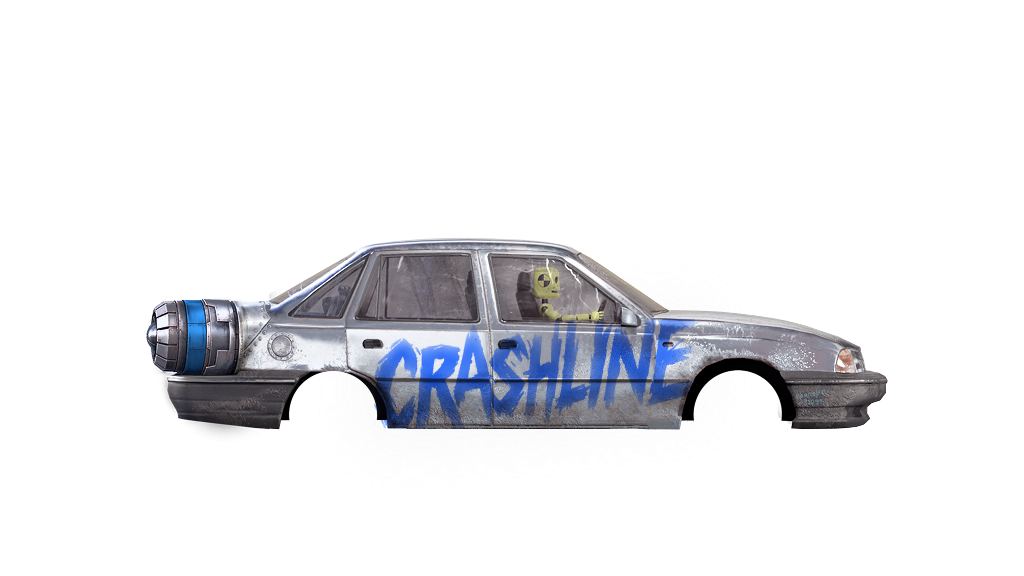
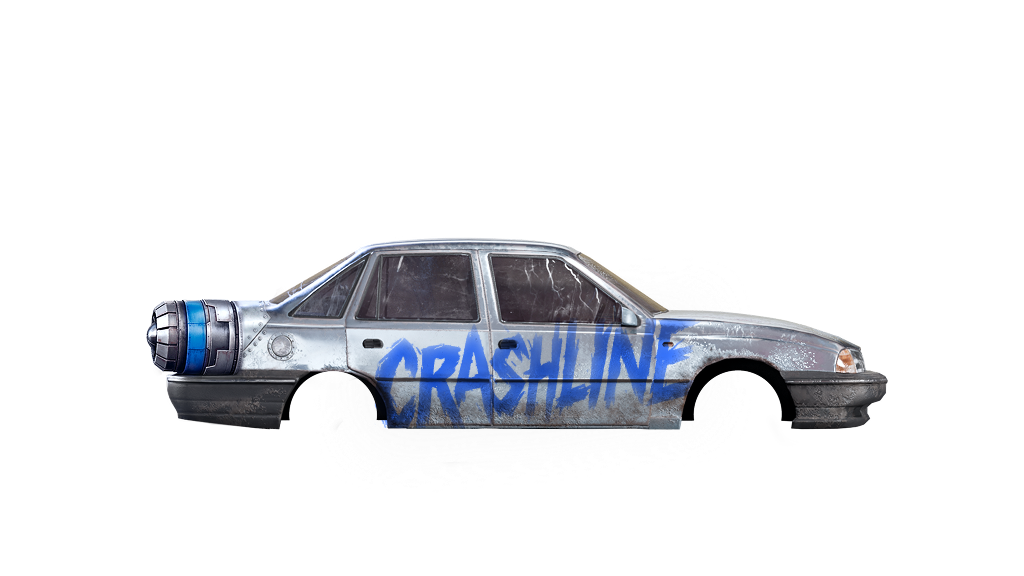
fd

diff --git a/src/scenes/game-scene.js b/src/scenes/game-scene.js
@@ -74,6 +74,7 @@
       this.carControlConfig = null;
       this.carControlRoot = null;
       this.carControlJson = null;
+      this.nextCarLightSweepAt = 0;
     }
 
     create() {
@@ -88,7 +89,9 @@
         wheel1: this.textures.exists("wheel1"),
         wheelShadow: this.textures.exists("wheelShadow"),
         carGroundShadow: this.textures.exists("carGroundShadow"),
-        turboFire1: this.textures.exists("turboFire1")
+        turboFire1: this.textures.exists("turboFire1"),
+        carCrashBody1: this.textures.exists("carCrashBody1"),
+        carLightSweep1: this.textures.exists("carLightSweep1")
       });
       this.wallet = new CT.Wallet();
       this.cameras.main.setBounds(-1800, 0, CT.Config.gameplay.worldWidth + 1800, CT.Config.height);
@@ -633,6 +636,8 @@
           this.car.bodyRig.setPosition(cfg.body.x, cfg.body.y).setAngle(0);
         }
         if (this.car.bodyImage) this.car.bodyImage.setScale(cfg.body.scale);
+        if (this.car.lightSweep) this.car.lightSweep.setScale(cfg.body.scale);
+        if (this.car.crashBody) this.car.crashBody.setScale(cfg.body.scale);
         if (this.car.rearWheel) this.car.rearWheel.setPosition(cfg.rearWheel.x, cfg.rearWheel.y).setScale(cfg.rearWheel.scale);
         if (this.car.frontWheel) this.car.frontWheel.setPosition(cfg.frontWheel.x, cfg.frontWheel.y).setScale(cfg.frontWheel.scale);
         if (this.car.wheelShadow) {
@@ -911,9 +916,15 @@
         .setBlendMode(Phaser.BlendModes.ADD);
       const bodyRig = this.add.container(0, 0);
       const bodyImage = this.add.image(0, 0, "carBody").setOrigin(0.5);
+      const lightSweep = this.add.sprite(0, 0, "carLightSweep1")
+        .setOrigin(0.5)
+        .setVisible(false)
+        .setAlpha(0)
+        .setBlendMode(Phaser.BlendModes.ADD);
+      const crashBody = this.add.sprite(0, 0, "carCrashBody1").setOrigin(0.5).setVisible(false);
 
       wheelRig.add([rearWheel, frontWheel, wheelShadow]);
-      bodyRig.add([bodyImage, turboFire]);
+      bodyRig.add([bodyImage, lightSweep, crashBody, turboFire]);
       visualRoot.add([wheelRig, bodyRig]);
       car.add(visualRoot);
 
@@ -921,6 +932,8 @@
       car.wheelRig = wheelRig;
       car.bodyRig = bodyRig;
       car.bodyImage = bodyImage;
+      car.lightSweep = lightSweep;
+      car.crashBody = crashBody;
       car.rearWheel = rearWheel;
       car.frontWheel = frontWheel;
       car.wheelShadow = wheelShadow;
@@ -930,11 +943,83 @@
       car.bodyBaseY = 0;
       car.bodyBouncePhase = Math.random() * Math.PI * 2;
       car.bodyPitchPhase = Math.random() * Math.PI * 2;
+      lightSweep.on("animationcomplete", (animation) => {
+        if (animation && animation.key === "carLightSweep") {
+          lightSweep.setVisible(false).setAlpha(0);
+        }
+      });
       this.car = car;
       this.applyCarControlConfig(false);
       this.setWheelPlayback(false);
       this.updateCarFlame();
       return car;
+    }
+
+    setCarCrashVisual(active) {
+      if (!this.car) return;
+      if (this.car.bodyImage) this.car.bodyImage.setVisible(!active);
+      if (this.car.rearWheel) this.car.rearWheel.setVisible(!active);
+      if (this.car.frontWheel) this.car.frontWheel.setVisible(!active);
+      if (this.car.wheelShadow) this.car.wheelShadow.setVisible(!active);
+
+      if (this.car.turboFire) {
+        this.car.turboFire.setVisible(!active);
+        if (active) this.car.turboFire.setAlpha(0);
+      }
+      if (active) this.hideCarLightSweep();
+
+      if (!this.car.crashBody) return;
+      if (active) {
+        if (this.car.crashBody.visible) return;
+        this.car.crashBody
+          .setVisible(true)
+          .setAlpha(1)
+          .setTexture("carCrashBody1");
+        this.car.crashBody.play("carBodyCrash", true);
+      } else {
+        if (this.car.crashBody.anims && this.car.crashBody.anims.isPlaying) {
+          this.car.crashBody.stop();
+        }
+        this.car.crashBody
+          .setTexture("carCrashBody1")
+          .setVisible(false)
+          .setAlpha(0);
+      }
+    }
+
+    hideCarLightSweep() {
+      if (!this.car || !this.car.lightSweep) return;
+      if (this.car.lightSweep.anims && this.car.lightSweep.anims.isPlaying) {
+        this.car.lightSweep.stop();
+      }
+      this.car.lightSweep
+        .setTexture("carLightSweep1")
+        .setVisible(false)
+        .setAlpha(0);
+    }
+
+    updateCarLightSweep(roadSpeed) {
+      if (!this.car || !this.car.lightSweep) return;
+      if (this.state !== "running" || (this.car.crashBody && this.car.crashBody.visible)) {
+        this.hideCarLightSweep();
+        return;
+      }
+
+      const now = this.time.now;
+      const speedT = Phaser.Math.Clamp((roadSpeed - 340) / 1900, 0, 1);
+      const speedEase = Phaser.Math.Easing.Sine.Out(speedT);
+      const interval = Phaser.Math.Linear(1450, 480, speedEase);
+      if (!this.nextCarLightSweepAt) {
+        this.nextCarLightSweepAt = now + Phaser.Math.FloatBetween(120, 320);
+      }
+      if (now < this.nextCarLightSweepAt || this.car.lightSweep.anims.isPlaying) return;
+
+      this.car.lightSweep
+        .setVisible(true)
+        .setAlpha(Phaser.Math.Linear(0.5, 0.82, speedEase))
+        .play("carLightSweep", true);
+      this.car.lightSweep.anims.timeScale = Phaser.Math.Linear(0.82, 1.24, speedEase);
+      this.nextCarLightSweepAt = now + interval * Phaser.Math.FloatBetween(0.82, 1.16);
     }
 
     createDummy() {
@@ -1065,6 +1150,9 @@
       if (this.car.bodyRig) this.car.bodyRig.y = this.car.bodyBaseY || 0;
       if (this.car.bodyRig) this.car.bodyRig.angle = 0;
       this.setWheelPlayback(false);
+      this.setCarCrashVisual(false);
+      this.hideCarLightSweep();
+      this.nextCarLightSweepAt = 0;
       this.updateCarFlame();
       this.updateCarGroundShadow();
       this.dummy.setPosition(-22, -45).setAngle(0).setScale(1).setDepth(0);
@@ -1182,8 +1270,8 @@
       const payout = this.wallet.currentBet * this.multiplier;
       const crashRoadTravel = 820;
       const crashApproachDuration = Phaser.Math.Clamp((crashRoadTravel / releaseRoadSpeed) * 1000 * 0.48, 240, 390);
-      const impactCarX = CT.Config.width * 0.57;
-      const impactWallX = impactCarX + 142;
+      const impactWallX = CT.Config.width * 0.57 + 142;
+      const impactCarX = CT.Config.width * 0.57 - 30;
       const wallStartX = impactWallX + crashRoadTravel;
       this.pendingPayout = payout;
       this.bonusAdd = 0;
@@ -1199,6 +1287,14 @@
 
       const roadMotion = { t: 0 };
       let lastRoadT = 0;
+      let crashVisualStarted = false;
+      const crashVisualLead = 150;
+      const crashVisualStartT = Math.max(0, 1 - crashVisualLead / crashApproachDuration);
+      const startCrashVisual = () => {
+        if (crashVisualStarted) return;
+        crashVisualStarted = true;
+        this.setCarCrashVisual(true);
+      };
       this.tweens.add({
         targets: roadMotion,
         t: 1,
@@ -1209,11 +1305,15 @@
           const diff = motionT - lastRoadT;
           lastRoadT = motionT;
           this.advanceRoad(diff * crashRoadTravel);
-          this.barrier.x = wallStartX - motionT * crashRoadTravel;
-          this.car.x = Phaser.Math.Linear(carStartX, impactCarX, motionT);
+          const nextBarrierX = wallStartX - motionT * crashRoadTravel;
+          const nextCarX = Phaser.Math.Linear(carStartX, impactCarX, motionT);
+          this.barrier.x = nextBarrierX;
+          this.car.x = nextCarX;
           this.updateCarGroundShadow();
+          if (roadMotion.t >= crashVisualStartT) startCrashVisual();
         },
         onComplete: () => {
+          startCrashVisual();
           this.barrier.x = impactWallX;
           this.car.x = impactCarX;
           this.updateCarGroundShadow();
@@ -1228,12 +1328,6 @@
       this.tweens.killTweensOf(this.car);
       this.tweens.killTweensOf(this.dummy);
       this.setWheelPlayback(false);
-      this.tweens.add({
-        targets: this.car,
-        angle: -6,
-        duration: 55,
-        ease: "Quad.out"
-      });
       this.launchDummyAfterImpact(payout);
     }
 
@@ -1780,6 +1874,7 @@
       this.setPageControlsDimmed(false);
       this.tweens.killTweensOf(this.car);
       this.setWheelPlayback(false);
+      this.hideCarLightSweep();
       this.updateCarFlame();
       this.cameras.main.shake(180, 0.006);
       this.spawnSmoke(this.car.x + 94, this.car.y - 8, 22, 0x3e454a);
@@ -1908,6 +2003,9 @@
       if (this.car && this.car.bodyRig) this.car.bodyRig.y = this.car.bodyBaseY || 0;
       if (this.car && this.car.bodyRig) this.car.bodyRig.angle = 0;
       this.setWheelPlayback(false);
+      this.setCarCrashVisual(false);
+      this.hideCarLightSweep();
+      this.nextCarLightSweepAt = 0;
       this.updateCarFlame();
       this.updateCarGroundShadow();
       this.applyMultiplierTheme("idle");
@@ -1944,6 +2042,9 @@
       if (this.car && this.car.bodyRig) this.car.bodyRig.y = this.car.bodyBaseY || 0;
       if (this.car && this.car.bodyRig) this.car.bodyRig.angle = 0;
       this.setWheelPlayback(false);
+      this.setCarCrashVisual(false);
+      this.hideCarLightSweep();
+      this.nextCarLightSweepAt = 0;
       this.updateCarFlame();
       this.updateCarGroundShadow();
       this.applyMultiplierTheme("idle");
@@ -2011,6 +2112,7 @@
       this.updateCarBodyBounce(this.time.now);
       this.setWheelPlayback(true, Phaser.Math.Linear(0.38, 1.65, Phaser.Math.Clamp(roadSpeed / 980, 0, 1)));
       this.updateCarFlame();
+      this.updateCarLightSweep(roadSpeed);
       this.updateCarGroundShadow();
       this.advanceRoad(dx);
       if (this.multiplier >= this.engineBreakAt) {

diff --git a/src/scenes/boot-scene.js b/src/scenes/boot-scene.js
@@ -20,6 +20,15 @@
       const fencePoleUrl = CT.asset("images/stolb_lamp_1.png");
       const fenceLightUrl = CT.asset("images/yelow_light_1.png");
       const carBodyUrl = CT.asset("images/car_body.png");
+      const carCrashBodyFrames = 9;
+      const carCrashBodyUrls = Array.from({ length: carCrashBodyFrames }, (_, index) => {
+        const frame = String(index + 1).padStart(2, "0");
+        return CT.asset("images/CAR_BODY_CRASH_SEQ/CAR_CRASH_" + frame + ".png");
+      });
+      const carLightSweepFrames = 5;
+      const carLightSweepUrls = Array.from({ length: carLightSweepFrames }, (_, index) => {
+        return CT.asset("images/light_sweep_car_seq/light_sweep_" + (index + 1) + ".png");
+      });
       const wheelShadowUrl = CT.asset("images/shadow_for_wheels.png");
       const carGroundShadowUrl = CT.asset("images/shadow_under_car_wheels.png");
       const wheelUrls = [1, 2, 3, 4, 5].map((index) => CT.asset("images/wheel_seq/wheel_" + index + ".png"));
@@ -51,6 +60,8 @@
       console.log("LOAD fencePole:", fencePoleUrl);
       console.log("LOAD fenceLight:", fenceLightUrl);
       console.log("LOAD carBody:", carBodyUrl);
+      console.log("LOAD carCrashBody:", carCrashBodyUrls);
+      console.log("LOAD carLightSweep:", carLightSweepUrls);
       console.log("LOAD wheelShadow:", wheelShadowUrl);
       console.log("LOAD carGroundShadow:", carGroundShadowUrl);
       console.log("LOAD wheels:", wheelUrls);
@@ -80,6 +91,12 @@
       this.load.image("fencePole", fencePoleUrl);
       this.load.image("fenceLight", fenceLightUrl);
       this.load.image("carBody", carBodyUrl);
+      carCrashBodyUrls.forEach((url, index) => {
+        this.load.image("carCrashBody" + (index + 1), url);
+      });
+      carLightSweepUrls.forEach((url, index) => {
+        this.load.image("carLightSweep" + (index + 1), url);
+      });
       this.load.image("wheelShadow", wheelShadowUrl);
       this.load.image("carGroundShadow", carGroundShadowUrl);
       wheelUrls.forEach((url, index) => {
@@ -109,6 +126,10 @@
         fencePole: this.textures.exists("fencePole"),
         fenceLight: this.textures.exists("fenceLight"),
         carBody: this.textures.exists("carBody"),
+        carCrashBody1: this.textures.exists("carCrashBody1"),
+        carCrashBody9: this.textures.exists("carCrashBody9"),
+        carLightSweep1: this.textures.exists("carLightSweep1"),
+        carLightSweep5: this.textures.exists("carLightSweep5"),
         wheelShadow: this.textures.exists("wheelShadow"),
         carGroundShadow: this.textures.exists("carGroundShadow"),
         wheel1: this.textures.exists("wheel1"),
@@ -133,6 +154,22 @@
           frames: [1, 2, 3, 4, 5, 6, 7, 8].map((index) => ({ key: "turboFire" + index })),
           frameRate: 18,
           repeat: -1
+        });
+      }
+      if (!this.anims.exists("carBodyCrash")) {
+        this.anims.create({
+          key: "carBodyCrash",
+          frames: Array.from({ length: 9 }, (_, index) => ({ key: "carCrashBody" + (index + 1) })),
+          frameRate: 24,
+          repeat: 0
+        });
+      }
+      if (!this.anims.exists("carLightSweep")) {
+        this.anims.create({
+          key: "carLightSweep",
+          frames: Array.from({ length: 5 }, (_, index) => ({ key: "carLightSweep" + (index + 1) })),
+          frameRate: 24,
+          repeat: 0
         });
       }
       this.scene.start("GameScene");

diff --git a/index.html b/index.html
@@ -20,11 +20,11 @@
   <button class="page-btn fullscreen-btn" id="fullscreenBtn" type="button" aria-label="Fullscreen">FULL</button>
 
   <script src="https://cdnjs.cloudflare.com/ajax/libs/phaser/3.88.2/phaser.min.js"></script>
-  <script src="./src/config.js?v=2026-06-29-v0.1.62-car-ready-centered"></script>
-  <script src="./src/core/wallet.js?v=2026-06-29-v0.1.62-car-ready-centered"></script>
-  <script src="./src/ui/hud.js?v=2026-06-29-v0.1.62-car-ready-centered"></script>
-  <script src="./src/scenes/boot-scene.js?v=2026-06-29-v0.1.62-car-ready-centered"></script>
-  <script src="./src/scenes/game-scene.js?v=2026-06-29-v0.1.62-car-ready-centered"></script>
-  <script src="./src/main.js?v=2026-06-29-v0.1.62-car-ready-centered"></script>
+  <script src="./src/config.js?v=2026-06-30-v0.1.72-crash-seq-24fps"></script>
+  <script src="./src/core/wallet.js?v=2026-06-30-v0.1.72-crash-seq-24fps"></script>
+  <script src="./src/ui/hud.js?v=2026-06-30-v0.1.72-crash-seq-24fps"></script>
+  <script src="./src/scenes/boot-scene.js?v=2026-06-30-v0.1.72-crash-seq-24fps"></script>
+  <script src="./src/scenes/game-scene.js?v=2026-06-30-v0.1.72-crash-seq-24fps"></script>
+  <script src="./src/main.js?v=2026-06-30-v0.1.72-crash-seq-24fps"></script>
 </body>
 </html>

diff --git a/src/config.js b/src/config.js
@@ -3,8 +3,8 @@
   const assetRoot = new URL("./assets/", window.location.href).href;
 
   CT.Config = {
-    build: "2026-06-29-v0.1.62-car-ready-centered",
-    gameVersion: "v0.1.62",
+    build: "2026-06-30-v0.1.72-crash-seq-24fps",
+    gameVersion: "v0.1.72",
     phaserVersion: "3.88.2",
     width: 720,
     height: 1280,